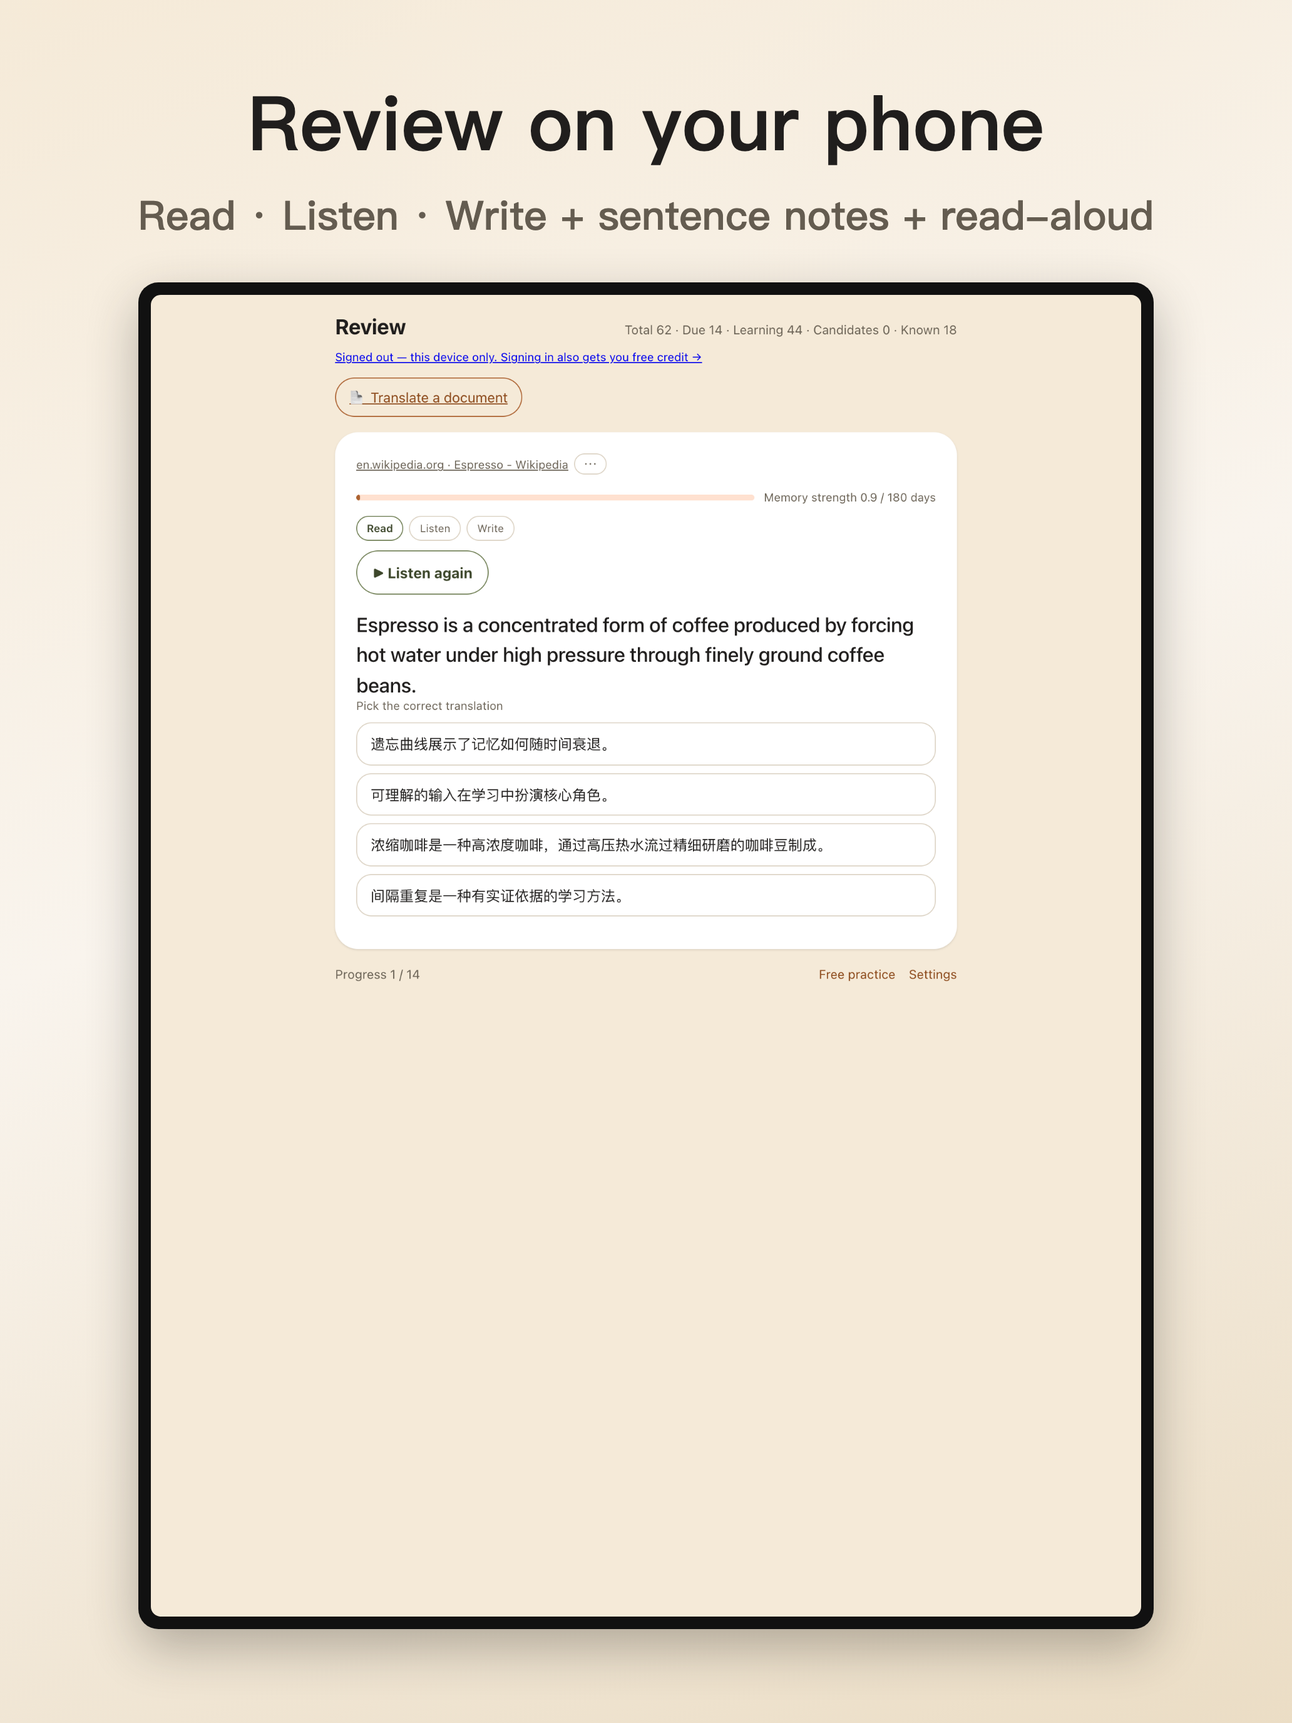
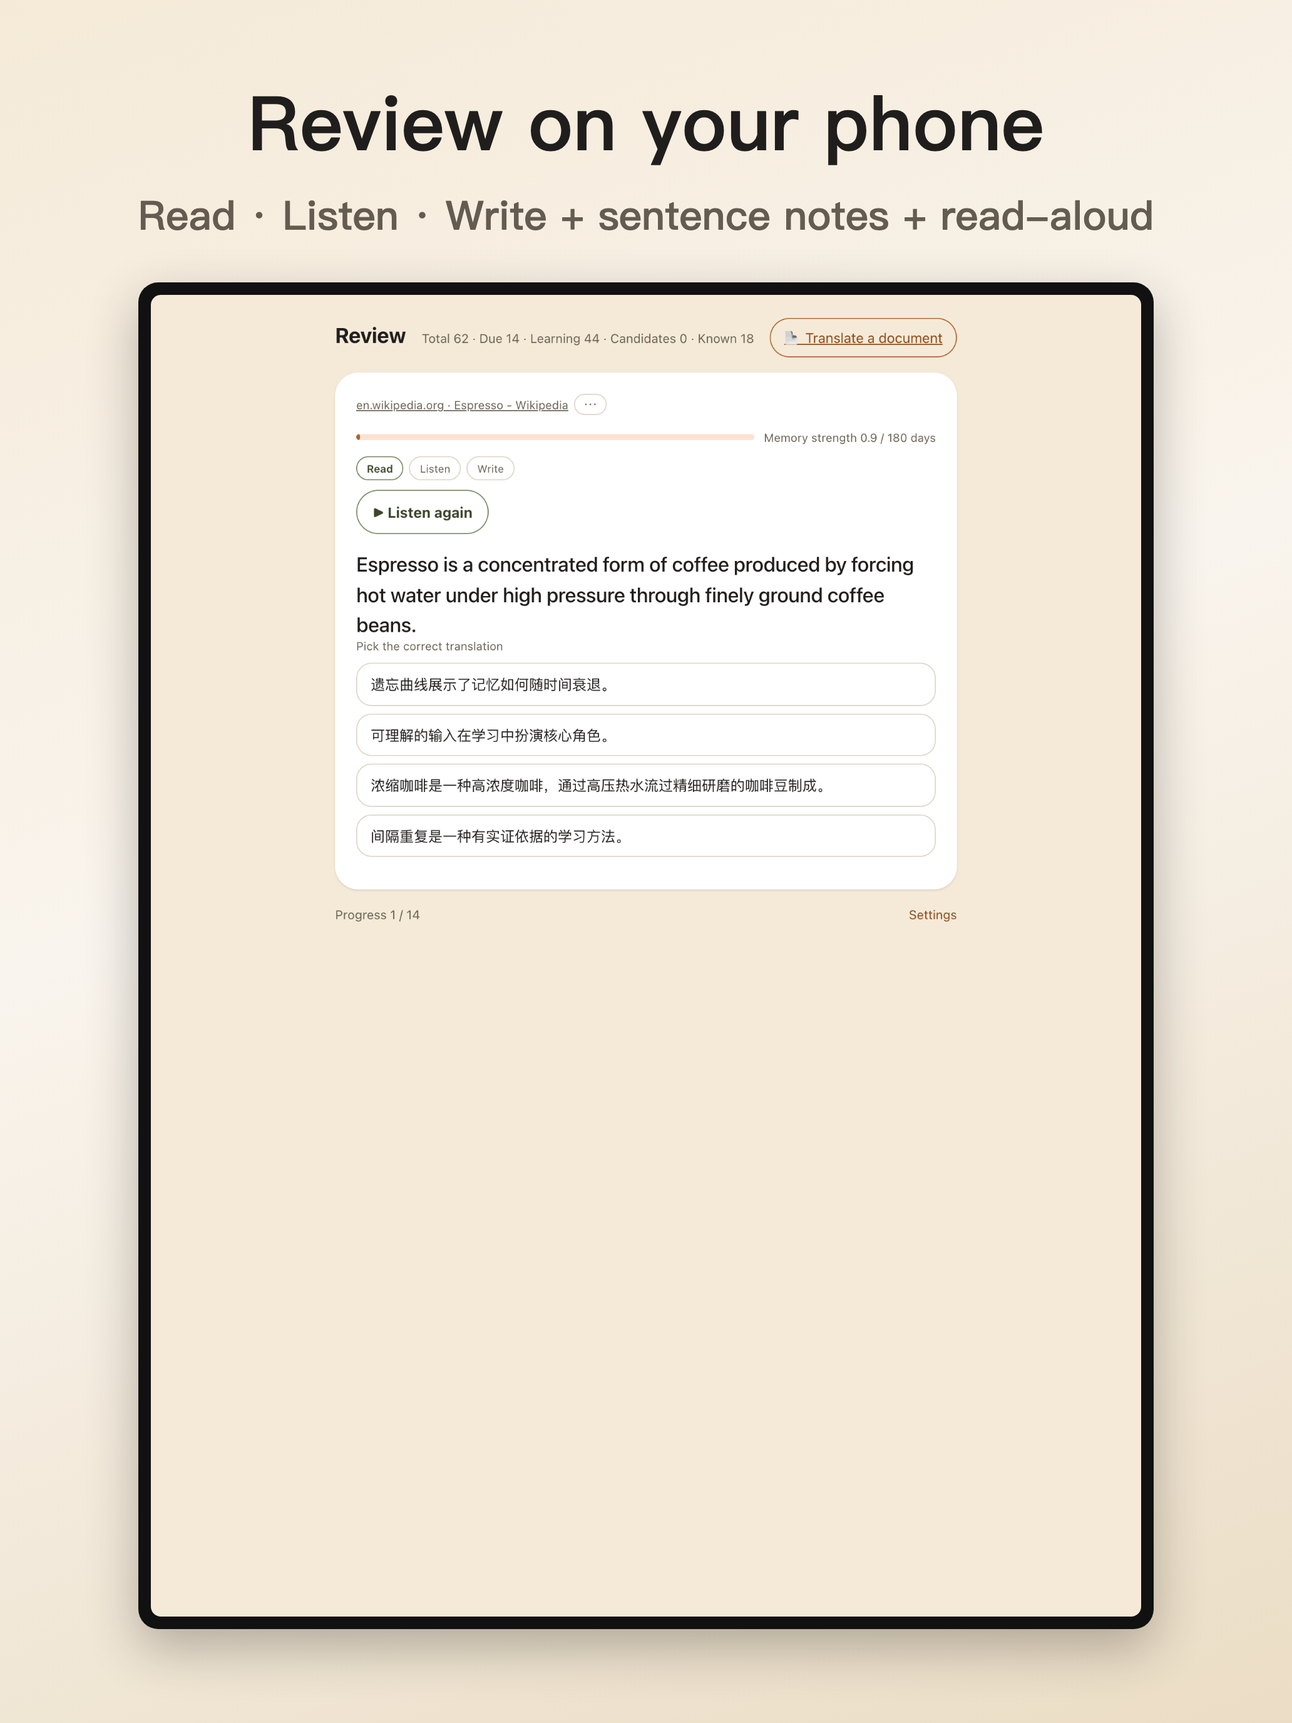
fix(store-assets): 撤 2.3.7 价格引用 —— App 集撤帧 6、全语种删免费额度文案 (#497)
* fix(store-assets): 撤 2.3.7 价格引用 —— App 集撤帧 6、全语种删免费额度文案

国际 iOS 1.17.0 被 Guideline 2.3.7 拒审（截图含价格引用，「free 也算」）。
用户裁定：免费额度不当卖点，description 里的额度引用一并删除。

- scripts/asc-media.js：新增第五张表 ORDER_APP_GLOBAL，App 集全部撤帧 6；
  ORDER_GLOBAL 原样留给扩展两店
- aso.md / aso-ios.md / aso-mac.md：13 语种同构改写（卖点句删额度整句、
  隐私句删中继分支），26 个替换模式 × 3 份 = 78 处，每模式恰好命中 1 次
- store-assets/src/capture.js：截图机种 staging 已登录会话（未登录横幅
  「登录领免费额度」是第二颗雷），藏 #practice-open（Free practice 链接）
  与 #sync-line（同步中永不落定）；App 一字不动
- 6 张出货图重渲（en-iphone-3/4/5、en-ipad-3/4/5）+ 5 张原料图重拍
- test/asc-media-plan.test.js：张数断言对齐新表（GL iOS en/zh 9、
  其余语种 8、iPad 8、Mac 9；中国版 8/7/7）

node test/run.js：2294 passed, 0 failed。

* fix(asc-submit): 回读 items 不带 resolved 字段名 —— PATCH 成功却被回读 400 打死

2026-09-28 重提 1.17.0 当场撞到：条目标 resolved 的 PATCH 本身成功了，
紧跟着的回读 GET 带了 fields[reviewSubmissionItems]=state,resolved，
而 resolved 不是合法字段名（PARAMETER_ERROR.INVALID）——
一次本该成功的重提死在回读上。只回读 state。

---------

Changed region(s): [[0.2481, 0.1875, 0.7442, 0.5625]]

diff --git a/scripts/asc-media.js b/scripts/asc-media.js
@@ -6,6 +6,7 @@
 //   node scripts/asc-media.js --apply                # 真的替换（**对外动作**，会改线上商店页）
 //   node scripts/asc-media.js --apply --only cn-ios  # 只做一条线
 //   node scripts/asc-media.js --version 1.6.5        # 版本默认取 package.json，可覆盖
+//   node scripts/asc-media.js --screenshots-only     # 只换截图，预览片保留线上现有（修文案类拒审时用）
 //
 // --only 的取值就是 PLAN 里的 id：global-ios / global-mac / global-ios-zh /
 // global-mac-zh / cn-ios / cn-mac。
@@ -70,15 +71,21 @@ const c = (n) => path.join(ROOT, 'screenshots-cn', n);
 //   国际版 1 网页双语 · 8 实时字幕 · 9 对话听译 · 2 视频字幕 · 7 文档 · 3 复习卡 · 4 手机复习 · 5 跨设备 · 6 一键配置
 //   中国版 1 网页双语 · 6 实时字幕 · 7 对话听译 · 5 文档 · 3 复习卡 · 2 自带 Key · 4 学习设置
 // 以前写死「前 5 张 / 前 4 张」，于是 1.7 的一键配置帧、1.10 的文档帧渲染出来了却从没上过商店。
+// ORDER_GLOBAL 现在只喂扩展两店（amo-listing.js 的 AMO 预览图 + CWS 截图）。App 的
+// 截图集一律走 ORDER_APP_GLOBAL —— 2026-09-28 国际 iOS 1.17.0 被 Guideline 2.3.7 拒审
+// （截图里的价格引用，「free 也算」），帧 6 一键配置引导页整个从 App 商店图撤下；
+// 扩展两店不归苹果审，帧 6 保留。
 const ORDER_GLOBAL = [1, 8, 9, 2, 7, 3, 4, 5, 6];
+// App 截图集（iPhone 65 / iPad / 九份本地化）的共用表：ORDER_GLOBAL 去掉帧 6。
+const ORDER_APP_GLOBAL = [1, 8, 9, 2, 7, 3, 4, 5];
 // iPhone 那一集多一帧：10 = 系统翻译（1.14 的主角），排在第 2 位。
 // **只有 iPhone 集有它** —— iPad 没有原料（没有 iPad 硬件，模拟器里没有那个扩展点），
-// Mac 根本没有这个功能。10 张正好是 ASC 每组的上限。
-const ORDER_IPHONE = [1, 10, 8, 9, 2, 7, 3, 4, 5, 6];
+// Mac 根本没有这个功能。
+const ORDER_IPHONE = [1, 10, 8, 9, 2, 7, 3, 4, 5];
 // Mac 那一集同样多一帧：11 = 快速翻译（1.13.1 的主角），排在第 2 位 —— 与 iPhone 的
 // 帧 10 镜像对称。**只有 Mac 集有它**：iPhone / iPad 上没有这个功能，扩展两店不放
-// App 独有的东西。10 张同样正好是 ASC 每组的上限。
-const ORDER_MAC = [1, 11, 8, 9, 2, 7, 3, 4, 5, 6];
+// App 独有的东西。
+const ORDER_MAC = [1, 11, 8, 9, 2, 7, 3, 4, 5];
 const ORDER_CN = [1, 6, 7, 5, 3, 2, 4];
 // 中国版的 iPhone 集也多一帧：8 = 系统翻译，排在第 2 位 —— 与国际版 ORDER_IPHONE 的
 // 帧 10 同一个位置、同一条理由。**只有 iPhone 集有它**：iPad 没有原料（没有 iPad 硬件），
@@ -99,7 +106,7 @@ const PLAN = [
     id: 'global-ios', bundleId: 'com.belliedmonkeytranslator', platform: 'IOS', locale: 'en-US',
     screenshots: {
       APP_IPHONE_65: frames(ORDER_IPHONE, (i) => g(`en-iphone-${i}.png`)),
-      APP_IPAD_PRO_3GEN_129: frames(ORDER_GLOBAL, (i) => g(`en-ipad-${i}.png`)),
+      APP_IPAD_PRO_3GEN_129: frames(ORDER_APP_GLOBAL, (i) => g(`en-ipad-${i}.png`)),
     },
     previews: { IPHONE_65: v('en-ios.mp4') },
   },
@@ -114,7 +121,7 @@ const PLAN = [
     id: 'global-ios-zh', bundleId: 'com.belliedmonkeytranslator', platform: 'IOS', locale: 'zh-Hans',
     screenshots: {
       APP_IPHONE_65: frames(ORDER_IPHONE, (i) => g(`zh-iphone-${i}.png`)),
-      APP_IPAD_PRO_3GEN_129: frames(ORDER_GLOBAL, (i) => g(`zh-ipad-${i}.png`)),
+      APP_IPAD_PRO_3GEN_129: frames(ORDER_APP_GLOBAL, (i) => g(`zh-ipad-${i}.png`)),
     },
     previews: { IPHONE_65: v('zh-ios.mp4') },
   },
@@ -133,8 +140,8 @@ const PLAN = [
   {
     id: 'global-ios-ru', bundleId: 'com.belliedmonkeytranslator', platform: 'IOS', locale: 'ru',
     screenshots: {
-      APP_IPHONE_65: frames(ORDER_GLOBAL, (i) => g(`en-iphone-${i}.png`)),
-      APP_IPAD_PRO_3GEN_129: frames(ORDER_GLOBAL, (i) => g(`en-ipad-${i}.png`)),
+      APP_IPHONE_65: frames(ORDER_APP_GLOBAL, (i) => g(`en-iphone-${i}.png`)),
+      APP_IPAD_PRO_3GEN_129: frames(ORDER_APP_GLOBAL, (i) => g(`en-ipad-${i}.png`)),
     },
     previews: {},
   },
@@ -146,8 +153,8 @@ const PLAN = [
   {
     id: 'global-ios-dede', bundleId: 'com.belliedmonkeytranslator', platform: 'IOS', locale: 'de-DE',
     screenshots: {
-      APP_IPHONE_65: frames(ORDER_GLOBAL, (i) => g(`en-iphone-${i}.png`)),
-      APP_IPAD_PRO_3GEN_129: frames(ORDER_GLOBAL, (i) => g(`en-ipad-${i}.png`)),
+      APP_IPHONE_65: frames(ORDER_APP_GLOBAL, (i) => g(`en-iphone-${i}.png`)),
+      APP_IPAD_PRO_3GEN_129: frames(ORDER_APP_GLOBAL, (i) => g(`en-ipad-${i}.png`)),
     },
     previews: {},
   },
@@ -159,8 +166,8 @@ const PLAN = [
   {
     id: 'global-ios-ja', bundleId: 'com.belliedmonkeytranslator', platform: 'IOS', locale: 'ja',
     screenshots: {
-      APP_IPHONE_65: frames(ORDER_GLOBAL, (i) => g(`en-iphone-${i}.png`)),
-      APP_IPAD_PRO_3GEN_129: frames(ORDER_GLOBAL, (i) => g(`en-ipad-${i}.png`)),
+      APP_IPHONE_65: frames(ORDER_APP_GLOBAL, (i) => g(`en-iphone-${i}.png`)),
+      APP_IPAD_PRO_3GEN_129: frames(ORDER_APP_GLOBAL, (i) => g(`en-ipad-${i}.png`)),
     },
     previews: {},
   },
@@ -172,8 +179,8 @@ const PLAN = [
   {
     id: 'global-ios-frfr', bundleId: 'com.belliedmonkeytranslator', platform: 'IOS', locale: 'fr-FR',
     screenshots: {
-      APP_IPHONE_65: frames(ORDER_GLOBAL, (i) => g(`en-iphone-${i}.png`)),
-      APP_IPAD_PRO_3GEN_129: frames(ORDER_GLOBAL, (i) => g(`en-ipad-${i}.png`)),
+      APP_IPHONE_65: frames(ORDER_APP_GLOBAL, (i) => g(`en-iphone-${i}.png`)),
+      APP_IPAD_PRO_3GEN_129: frames(ORDER_APP_GLOBAL, (i) => g(`en-ipad-${i}.png`)),
     },
     previews: {},
   },
@@ -185,8 +192,8 @@ const PLAN = [
   {
     id: 'global-ios-ko', bundleId: 'com.belliedmonkeytranslator', platform: 'IOS', locale: 'ko',
     screenshots: {
-      APP_IPHONE_65: frames(ORDER_GLOBAL, (i) => g(`en-iphone-${i}.png`)),
-      APP_IPAD_PRO_3GEN_129: frames(ORDER_GLOBAL, (i) => g(`en-ipad-${i}.png`)),
+      APP_IPHONE_65: frames(ORDER_APP_GLOBAL, (i) => g(`en-iphone-${i}.png`)),
+      APP_IPAD_PRO_3GEN_129: frames(ORDER_APP_GLOBAL, (i) => g(`en-ipad-${i}.png`)),
     },
     previews: {},
   },
@@ -198,8 +205,8 @@ const PLAN = [
   {
     id: 'global-ios-ptbr', bundleId: 'com.belliedmonkeytranslator', platform: 'IOS', locale: 'pt-BR',
     screenshots: {
-      APP_IPHONE_65: frames(ORDER_GLOBAL, (i) => g(`en-iphone-${i}.png`)),
-      APP_IPAD_PRO_3GEN_129: frames(ORDER_GLOBAL, (i) => g(`en-ipad-${i}.png`)),
+      APP_IPHONE_65: frames(ORDER_APP_GLOBAL, (i) => g(`en-iphone-${i}.png`)),
+      APP_IPAD_PRO_3GEN_129: frames(ORDER_APP_GLOBAL, (i) => g(`en-ipad-${i}.png`)),
     },
     previews: {},
   },
@@ -211,8 +218,8 @@ const PLAN = [
   {
     id: 'global-ios-eses', bundleId: 'com.belliedmonkeytranslator', platform: 'IOS', locale: 'es-ES',
     screenshots: {
-      APP_IPHONE_65: frames(ORDER_GLOBAL, (i) => g(`en-iphone-${i}.png`)),
-      APP_IPAD_PRO_3GEN_129: frames(ORDER_GLOBAL, (i) => g(`en-ipad-${i}.png`)),
+      APP_IPHONE_65: frames(ORDER_APP_GLOBAL, (i) => g(`en-iphone-${i}.png`)),
+      APP_IPAD_PRO_3GEN_129: frames(ORDER_APP_GLOBAL, (i) => g(`en-ipad-${i}.png`)),
     },
     previews: {},
   },
@@ -224,8 +231,8 @@ const PLAN = [
   {
     id: 'global-ios-arsa', bundleId: 'com.belliedmonkeytranslator', platform: 'IOS', locale: 'ar-SA',
     screenshots: {
-      APP_IPHONE_65: frames(ORDER_GLOBAL, (i) => g(`en-iphone-${i}.png`)),
-      APP_IPAD_PRO_3GEN_129: frames(ORDER_GLOBAL, (i) => g(`en-ipad-${i}.png`)),
+      APP_IPHONE_65: frames(ORDER_APP_GLOBAL, (i) => g(`en-iphone-${i}.png`)),
+      APP_IPAD_PRO_3GEN_129: frames(ORDER_APP_GLOBAL, (i) => g(`en-ipad-${i}.png`)),
     },
     previews: {},
   },
@@ -238,8 +245,8 @@ const PLAN = [
   {
     id: 'global-ios-it', bundleId: 'com.belliedmonkeytranslator', platform: 'IOS', locale: 'it',
     screenshots: {
-      APP_IPHONE_65: frames(ORDER_GLOBAL, (i) => g(`en-iphone-${i}.png`)),
-      APP_IPAD_PRO_3GEN_129: frames(ORDER_GLOBAL, (i) => g(`en-ipad-${i}.png`)),
+      APP_IPHONE_65: frames(ORDER_APP_GLOBAL, (i) => g(`en-iphone-${i}.png`)),
+      APP_IPAD_PRO_3GEN_129: frames(ORDER_APP_GLOBAL, (i) => g(`en-ipad-${i}.png`)),
     },
     previews: {},
   },
@@ -251,8 +258,8 @@ const PLAN = [
   {
     id: 'global-ios-tr', bundleId: 'com.belliedmonkeytranslator', platform: 'IOS', locale: 'tr',
     screenshots: {
-      APP_IPHONE_65: frames(ORDER_GLOBAL, (i) => g(`en-iphone-${i}.png`)),
-      APP_IPAD_PRO_3GEN_129: frames(ORDER_GLOBAL, (i) => g(`en-ipad-${i}.png`)),
+      APP_IPHONE_65: frames(ORDER_APP_GLOBAL, (i) => g(`en-iphone-${i}.png`)),
+      APP_IPAD_PRO_3GEN_129: frames(ORDER_APP_GLOBAL, (i) => g(`en-ipad-${i}.png`)),
     },
     previews: {},
   },
@@ -264,8 +271,8 @@ const PLAN = [
   {
     id: 'global-ios-vi', bundleId: 'com.belliedmonkeytranslator', platform: 'IOS', locale: 'vi',
     screenshots: {
-      APP_IPHONE_65: frames(ORDER_GLOBAL, (i) => g(`en-iphone-${i}.png`)),
-      APP_IPAD_PRO_3GEN_129: frames(ORDER_GLOBAL, (i) => g(`en-ipad-${i}.png`)),
+      APP_IPHONE_65: frames(ORDER_APP_GLOBAL, (i) => g(`en-iphone-${i}.png`)),
+      APP_IPAD_PRO_3GEN_129: frames(ORDER_APP_GLOBAL, (i) => g(`en-ipad-${i}.png`)),
     },
     previews: {},
   },
@@ -277,8 +284,8 @@ const PLAN = [
   {
     id: 'global-ios-pl', bundleId: 'com.belliedmonkeytranslator', platform: 'IOS', locale: 'pl',
     screenshots: {
-      APP_IPHONE_65: frames(ORDER_GLOBAL, (i) => g(`en-iphone-${i}.png`)),
-      APP_IPAD_PRO_3GEN_129: frames(ORDER_GLOBAL, (i) => g(`en-ipad-${i}.png`)),
+      APP_IPHONE_65: frames(ORDER_APP_GLOBAL, (i) => g(`en-iphone-${i}.png`)),
+      APP_IPAD_PRO_3GEN_129: frames(ORDER_APP_GLOBAL, (i) => g(`en-ipad-${i}.png`)),
     },
     previews: {},
   },
@@ -290,8 +297,8 @@ const PLAN = [
   {
     id: 'global-ios-zhhant', bundleId: 'com.belliedmonkeytranslator', platform: 'IOS', locale: 'zh-Hant',
     screenshots: {
-      APP_IPHONE_65: frames(ORDER_GLOBAL, (i) => g(`zh-iphone-${i}.png`)),
-      APP_IPAD_PRO_3GEN_129: frames(ORDER_GLOBAL, (i) => g(`zh-ipad-${i}.png`)),
+      APP_IPHONE_65: frames(ORDER_APP_GLOBAL, (i) => g(`zh-iphone-${i}.png`)),
+      APP_IPAD_PRO_3GEN_129: frames(ORDER_APP_GLOBAL, (i) => g(`zh-ipad-${i}.png`)),
     },
     previews: { IPHONE_65: v('zh-ios.mp4') },
   },
@@ -380,7 +387,10 @@ async function findVersionLocalization(bundleId, platform, locale) {
   // 在审中（WAITING_FOR_REVIEW / IN_REVIEW）不行：2026-08-22 实测
   // `POST /appScreenshotSets` 会被 409「Can't Create Screenshot Set while In Review」
   // 拒掉 —— 拒得很干净，状态不受影响，所以那条路是安全的死路，不是隐患。
-  const EDITABLE = ['PREPARE_FOR_SUBMISSION', 'DEVELOPER_REJECTED'];
+  // REJECTED（苹果拒审）也在这里改：2.3.7 拒审后的标准闭环就是在**同一个版本**上换图、
+  // 改文案、回复 Resolution Center、重提 —— 回复挂在这个版本的会话上，版本不可编辑就没法修
+  // （2026-09-28 国际 iOS 1.17.0 实走通）。要防的只是白名单外的在审/上架状态。
+  const EDITABLE = ['PREPARE_FOR_SUBMISSION', 'DEVELOPER_REJECTED', 'REJECTED'];
   if (!EDITABLE.includes(v.attributes.appStoreState)) {
     throw new Error(`${bundleId} ${platform} ${VERSION} 状态是 ${v.attributes.appStoreState}`
       + ' —— 不动它（在审期间 Apple 不接受新建截图集）');
@@ -427,6 +437,9 @@ if (require.main === module) (async () => {
   // --previews-only：只挂预览视频，跳过截图段。截图段一挂就整条抛出，预览段根本轮不到
   // （2026-09-16：苹果 `POST /appScreenshots` 连续 500 数小时，而 `POST /appPreviews` 是另一个端点）
   const previewsOnly = argv.includes('--previews-only');
+  // --screenshots-only：跳过预览片替换（预览逻辑是「文件在就重传」，而修 metadata 类拒审时
+  // 预览片没变 —— 2026-09-28 2.3.7 只点截图，视频不该跟着重传一遍）。
+  const screenshotsOnly = argv.includes('--screenshots-only');
   const onlyIdx = argv.indexOf('--only');
   const only = onlyIdx >= 0 ? argv[onlyIdx + 1] : null;
   VERSION = resolveVersion(argv);
@@ -486,7 +499,7 @@ if (require.main === module) (async () => {
     // ── 预览片 ──
     const psets = await api('GET', `/appStoreVersionLocalizations/${locId}/appPreviewSets?limit=20`
       + '&fields[appPreviewSets]=previewType');
-    for (const [previewType, file] of Object.entries(line.previews || {})) {
+    for (const [previewType, file] of Object.entries(screenshotsOnly ? {} : (line.previews || {}))) {
       // 预览视频要重录（assets.md 的 cap 配方），不是每次发版都重做；文件不在就保留线上那份，
       // 只换截图 —— 但要说出来，别让「没换」看起来像「换了」（2026-09-08，1.8.0 只换图）。
       if (!fs.existsSync(file)) { console.log(`  ⚠ 预览 ${previewType}: 本地没有 ${file}，保留线上现有预览不动`); continue; }

diff --git a/store-assets/src/capture.js b/store-assets/src/capture.js
@@ -132,7 +132,43 @@ const sleep = (ms) => new Promise((r) => setTimeout(r, ms));
       localStorage.setItem('mt:provider', JSON.stringify('google'));
       // 不写 apiKey：免费通道不需要，商店图也不该出现任何像密钥的东西。
       localStorage.setItem('mt:ttsMode', JSON.stringify('assist'));
+      // staging 已登录（2026-09-28）：未登录态会在复习页画「未登录…登录还能领一份
+      // 免费额度 →」横幅（review.js case 'signed_out'），被苹果 2.3.7 判为截图价格
+      // 引用（「free 也算」）。真实用户登录后这行本来就不渲染，这里种一个只存在于
+      // 截图机里的会话（expires 远期、userId 留空 ⇒ renderGoApp 的「在 App 里继续
+      // 复习」按钮也不出）—— 是把截图对齐到更典型的真实状态，不是造假。
+      localStorage.setItem('mt:learnAuth', JSON.stringify({
+        accessToken: 'staging-screenshot-not-a-real-token',
+        refreshToken: null,
+        expiresAt: Date.now() + 10 * 365 * 86400 * 1000,
+        email: null, phone: null, userId: null,
+        backend: 'https://staging.invalid',
+      }));
+      // staging：藏掉两处不需要上商店图的元素。#practice-open 是页脚的
+      // 「Free practice」链接（review.html，中文原文「自由练习」）—— 英文审核员只看
+      // 得到 "Free"，配上 2.3.7 的「free 也算价格引用」就是第二颗雷；#sync-line 是
+      // sync 状态行，截图会停在「与服务器同步中…」（网络被下面的桩按住，永不落定），
+      // 而真实用户常态看到的是「同步完成 · 时间」——都不上图为净。App 一字不动。
+      const st = document.createElement('style');
+      st.textContent = '#practice-open,#sync-line{display:none!important}';
+      // document_start 时 head 可能还没解析出来（null 时 appendChild 会抛，被本块
+      // 的 catch 吞掉就成了静默失效——2026-09-28 实拍抓到过一次），挂 ready 兜底。
+      const putSt = () => (document.head || document.documentElement).appendChild(st);
+      if (document.head || document.documentElement) { try { putSt(); } catch (_) {} }
+      else document.addEventListener('DOMContentLoaded', putSt, { once: true });
     } catch (_) {}
+    // staging：凡是不发往本地 http 服务的请求一律永不应答。sync 的 autoSync 拿上面
+    // 那个假会话跑时不能真打 api.belliedmonkey.com —— 401 判死会把「已登录」打回
+    // 「未登录」，拍摄窗口就成了一场竞态；翻译 backfill 的外联也不该决定截图成败。
+    (() => {
+      const orig = window.fetch;
+      window.fetch = function (input, init) {
+        const u = typeof input === 'string' ? input : (input && input.url) || '';
+        let host = ''; try { host = new URL(u, location.href).host; } catch (_) {}
+        if (host !== '127.0.0.1' && host !== 'localhost') return new Promise(() => {});
+        return orig.apply(this, arguments);
+      };
+    })();
   ` }, sessionId);
   const ev = async (expression) => {
     const r = await cdp.send('Runtime.evaluate', { expression, awaitPromise: true, returnByValue: true }, sessionId);
@@ -152,7 +188,8 @@ const sleep = (ms) => new Promise((r) => setTimeout(r, ms));
     for (const tier of TIERS) {
       await cdp.send('Emulation.setDeviceMetricsOverride', METRICS[tier], sessionId);
       const P = `${lang}-${tier}-`;
-      // ── stats：复习页首屏（计数 header + 首卡）。不登录，页面显示「未登录，仅本机数据」──
+      // ── stats：复习页首屏（计数 header + 首卡）。staging 已登录（见注入段），
+      //    sync 状态区不渲染任何横幅 ──
       await go(BASE + '/learn/review.html'); await sleep(800);
       await ev(DISMISS); await sleep(500); await ev('window.scrollTo(0, 0)');
       await shot(P + 'stats.png');

diff --git a/scripts/asc-submit.js b/scripts/asc-submit.js
@@ -287,10 +287,12 @@ async function cancelReview(version, bundleIds, apply) {
             await api('PATCH', `/reviewSubmissionItems/${it.id}`, {
               data: { type: 'reviewSubmissionItems', id: it.id, attributes: { resolved: true } },
             });
-            // reviewSubmissionItems 不允许 GET_INSTANCE（只有 CREATE/DELETE/UPDATE）—— 回读走提交的 items 列表
-            const again = await api('GET', `/reviewSubmissions/${cand.id}/items?limit=10&fields[reviewSubmissionItems]=state,resolved`);
+            // reviewSubmissionItems 不允许 GET_INSTANCE（只有 CREATE/DELETE/UPDATE）—— 回读走提交的 items 列表。
+            // fields 里不能带 resolved（2026-09-28 实测：PARAMETER_ERROR「'resolved' is not a valid
+            // field name」），PATCH 明明成功了、回读却 400 把整次提审打死 —— 只回读 state。
+            const again = await api('GET', `/reviewSubmissions/${cand.id}/items?limit=10&fields[reviewSubmissionItems]=state`);
             const me = (again.data || []).find((x) => x.id === it.id);
-            console.log(`    （条目标 resolved → state=${me && me.attributes.state} resolved=${me && me.attributes.resolved}）`);
+            console.log(`    （条目标 resolved → state=${me && me.attributes.state}）`);
           }
         }
         break;
